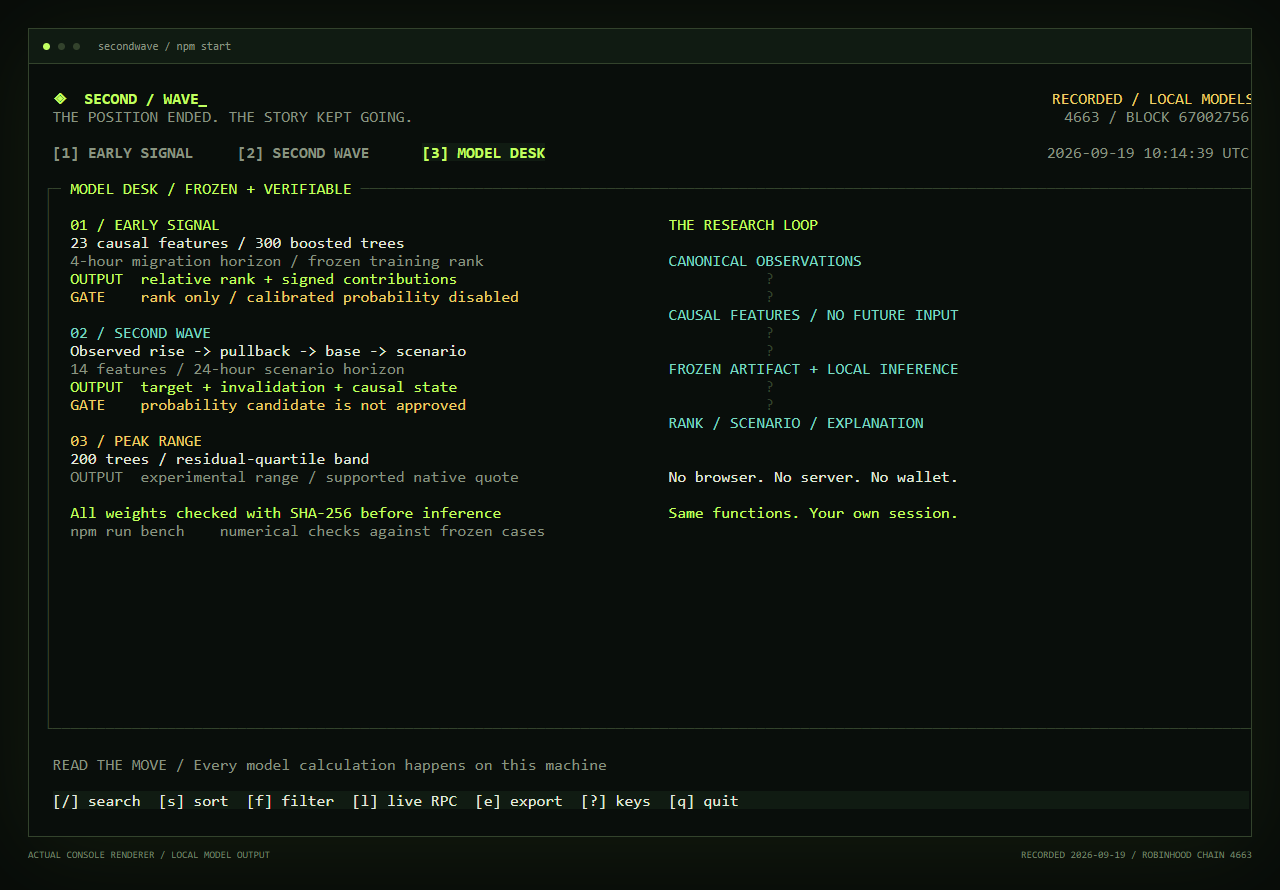
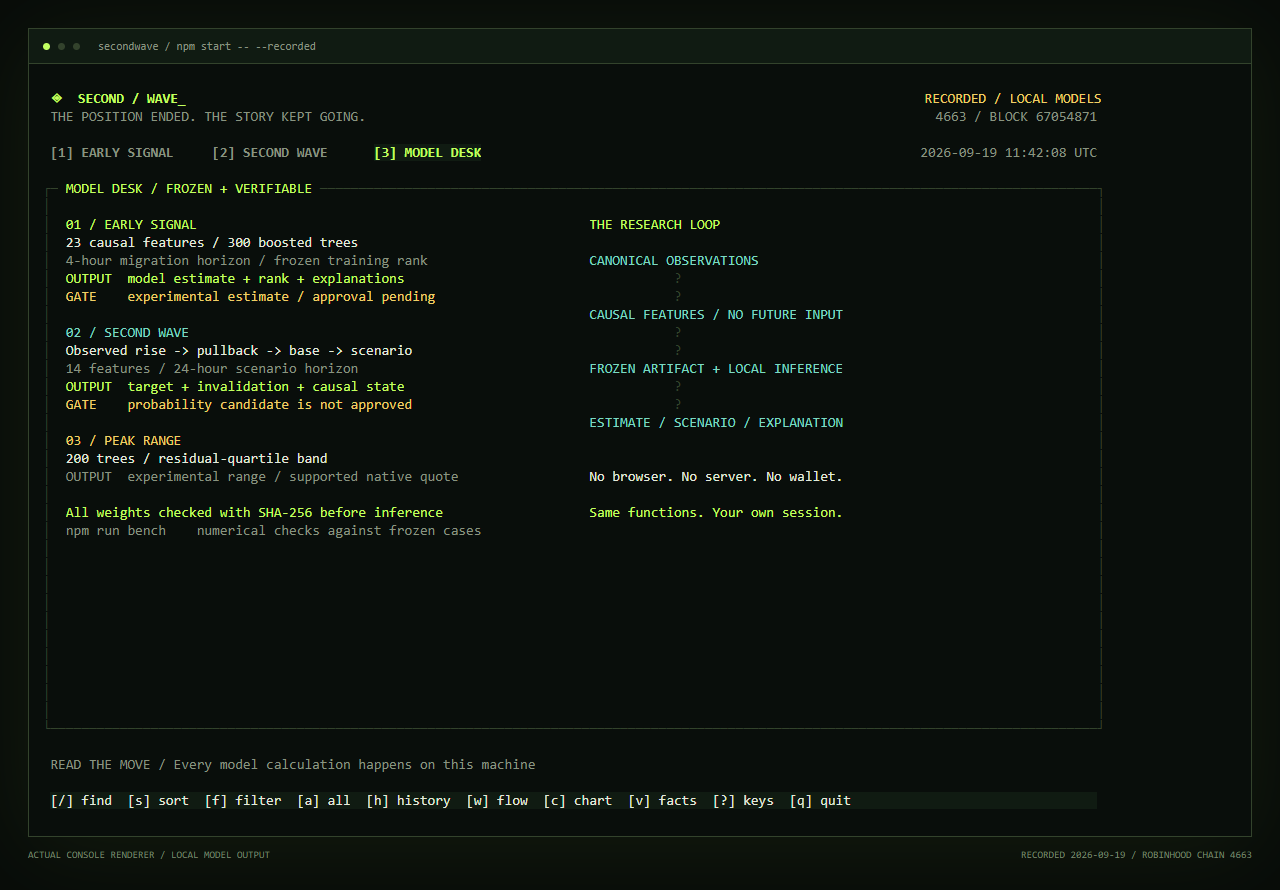
Document live console release and refresh the recorded research desk

diff --git a/scripts/render-console.ts b/scripts/render-console.ts
@@ -4,10 +4,11 @@ import { mkdir, writeFile } from 'node:fs/promises';
 import { execFileSync } from 'node:child_process';
 import { loadSession } from '../src/session.js';
 import { scoreMarket } from '../src/models.js';
+import { projectRow } from '../src/market.js';
 import { initialDesk } from '../src/tui/state.js';
 import { render } from '../src/tui/render.js';
 import { palette } from '../src/tui/canvas.js';
-const session = await loadSession(), rows = session.markets.map(m => scoreMarket(m, session.asOf));
+const session = await loadSession(), rows = session.markets.map(m => projectRow(scoreMarket(m, session.asOf), session));
 const work = '.local/console-frames', out = 'docs/github';
 await mkdir(work, { recursive: true }); await mkdir(out, { recursive: true });
 const browser = await chromium.launch({ channel: 'chrome' });
@@ -30,7 +31,7 @@ try {
       }
       return result + (text ? `<span style="${style}">${escape(text)}</span>` : '');
     }).join('\n');
-    await page.setContent(`<style>body{margin:0;padding:28px;background:#070b08;color:#e2eadb}main{border:1px solid #33432c;box-shadow:0 12px 90px #c1ff6010}header{height:34px;display:flex;align-items:center;gap:8px;background:#101b12;padding:0 14px;font:11px Consolas,monospace;color:#899480;border-bottom:1px solid #33432c}i{width:7px;height:7px;border-radius:100%;background:#33432c}i:first-child{background:#c1ff60}header span{margin-left:10px}pre{font:16px/18px Consolas,monospace;letter-spacing:0;margin:0;background:#090e0b;padding:8px 6px;white-space:pre;overflow:hidden}footer{font:10px Consolas,monospace;display:flex;justify-content:space-between;margin-top:12px;color:#74826a}</style><main><header><i></i><i></i><i></i><span>secondwave / npm start</span></header><pre>${lines}</pre></main><footer><span>ACTUAL CONSOLE RENDERER / LOCAL MODEL OUTPUT</span><span>RECORDED ${session.capturedAt.slice(0,10)} / ROBINHOOD CHAIN 4663</span></footer>`);
+    await page.setContent(`<style>body{margin:0;padding:28px;background:#070b08;color:#e2eadb}main{border:1px solid #33432c;box-shadow:0 12px 90px #c1ff6010}header{height:34px;display:flex;align-items:center;gap:8px;background:#101b12;padding:0 14px;font:11px Consolas,monospace;color:#899480;border-bottom:1px solid #33432c}i{width:7px;height:7px;border-radius:100%;background:#33432c}i:first-child{background:#c1ff60}header span{margin-left:10px}pre{font:14px/18px Consolas,monospace;letter-spacing:0;margin:0;background:#090e0b;padding:8px 6px;white-space:pre;overflow:hidden}footer{font:10px Consolas,monospace;display:flex;justify-content:space-between;margin-top:12px;color:#74826a}</style><main><header><i></i><i></i><i></i><span>secondwave / npm start -- --recorded</span></header><pre>${lines}</pre></main><footer><span>ACTUAL CONSOLE RENDERER / LOCAL MODEL OUTPUT</span><span>RECORDED ${session.capturedAt.slice(0,10)} / ROBINHOOD CHAIN 4663</span></footer>`);
     await page.screenshot({ path: `${work}/${String(frame).padStart(3, '0')}.png` });
     if (frame === 0) await page.screenshot({ path: `${out}/console-wave.png` });
     if (frame === 9) await page.screenshot({ path: `${out}/console-early.png` });

diff --git a/README.md b/README.md
@@ -2,7 +2,7 @@
 
 <p align="center"><sub>by <a href="https://x.com/0xchewa">0xchewa</a></sub></p>
 
-<p align="center"><a href="https://github.com/0xchewa/secondwave/actions/workflows/ci.yml"><img src="docs/github/badges/tests.svg" alt="35 public console tests passed on 19 September 2026"></a> <img src="docs/github/badges/engines.svg" alt="Early Signal and Second Wave"> <img src="docs/github/badges/node.svg" alt="Node 22.x"> <img src="docs/github/badges/chain.svg" alt="Robinhood Chain mainnet 4663"> <img src="docs/github/badges/stack.svg" alt="TypeScript, RPC, local inference"></p>
+<p align="center"><a href="https://github.com/0xchewa/secondwave/actions/workflows/ci.yml"><img src="docs/github/badges/tests.svg" alt="52 public console tests passed on 19 September 2026"></a> <img src="docs/github/badges/engines.svg" alt="Early Signal and Second Wave"> <img src="docs/github/badges/node.svg" alt="Node 22.x"> <img src="docs/github/badges/chain.svg" alt="Robinhood Chain mainnet 4663"> <img src="docs/github/badges/stack.svg" alt="TypeScript, RPC, local inference"></p>
 
 <p align="center"><a href="#run-it-locally"><b>RUN THE DESK ↓</b></a> &nbsp; / &nbsp; <a href="#second-wave--read-the-structure">THE METHOD</a> &nbsp; / &nbsp; <a href="#open-the-model-desk">MODEL RECORD</a> &nbsp; / &nbsp; <a href="docs/README.md">FIELD MANUAL</a></p>
 
@@ -14,7 +14,7 @@ You caught the launch. Watched the first candle go vertical. Sold into the pullb
 
 Second Wave follows that story on **Pons v2, Robinhood Chain**. Early Signal studies a launch at the point where its first information becomes available. Second Wave follows the structure after migration: the first move, the retracement, the base and the life of a scenario.
 
-This edition is a **read-only, local research console**. Launch-time ranking, scenario detection, model explanations and frozen artifacts run on your machine. Start with **196 recorded on-chain markets**, then continue collection directly through your Robinhood Chain RPC. No account, wallet, database or hosted API is needed.
+This edition is a **read-only, local research terminal**. Early estimates, scenario detection, explanations and frozen artifacts run on your machine. `npm start` opens the live desk and continues from a verified **39,605-token bootstrap**. Use ordinary Robinhood Chain RPC, or add your own HyperSync token for faster history. No wallet, database or project-hosted API is needed.
 
 ```sh
 git clone https://github.com/0xchewa/secondwave.git
@@ -94,16 +94,19 @@ The original Wave24 feature set and scenario-aware candidate are separate versio
 
 <sub>Recorded inputs from 19 September 2026, calculated locally. [Wave](docs/github/console-wave.png) · [Early](docs/github/console-early.png) · [Models](docs/github/console-models.png) · [Capture record](docs/github/console-capture.json)</sub>
 
-A compact feed and an inspection pane keep the market and its context together. Read stage, age, quote price, target, invalidation and observed **60-second sell pressure**. The inspector connects those values to the retained trade path and the model's explanations. Small terminal? Press Enter to open the inspector across the screen.
+A compact feed and an inspection pane keep the market and its context together. Read stage, age, quote price, target, invalidation and observed **60-second sell pressure**. Inspect minute OHLCV, complete **5m / 1h / 24h** flow and model explanations. Small terminal? Press Enter to open the inspector across the screen.
 
 | Key | Action | Key | Action |
 |:---|:---|:---|:---|
 | `1` / `2` / `3` | Early / Wave / models | `/` | Search symbol or contract |
 | `↑` / `↓` or `j` / `k` | Select a token | `s` / `f` | Sort / filter |
 | `Enter` | Open the inspector | `e` | Export the selected calculation |
-| `l` | Start RPC collection | `?` / `q` | Controls / quit |
+| `h` | Prepare history from launch | `a` | Ready feed / complete catalogue |
+| `w` / `c` | Flow window / chart range | `v` | Launch facts + explanations |
+| `m` | Minimum Early estimate | `l` | Start or retry live sync |
+| `?` / `q` | Controls / quit | `--recorded` | Explicit offline replay |
 
-Search covers **every record in the local session**, including rows outside the visible screen. This small standalone collector watches a bounded set of recent markets; arbitrary historical contracts need an imported session containing their observations. It does not claim a complete market census.
+Search covers **every record in the local catalogue**, including expired and ineligible contracts. A full CA bypasses view filters. For a contract outside that catalogue, use `lookup` or enter the CA and press `h`: HyperSync searches verified factory events; RPC supports a bounded `--from-block` range. History preparation is resumable and never labels an unfinished scan as complete.
 
 ## The Wave research ledger
 
@@ -123,7 +126,7 @@ This is the dated [published research record](data/evidence.json), not a live pr
 
 ## Early Signal / read the launch
 
-Early Signal starts upstream: what can be known about a launch before its later outcome exists? Launch-time features describe the transaction, caller context, prior launch history and the model's eligible comparison universe. The console pairs relative rank with three feature contributions and the available launch facts. The primary display is TOP %, measured against the frozen eligible reference population.
+Early Signal starts upstream: what can be known about a launch before its later outcome exists? Launch-time features describe the transaction, caller context, prior launch history and the model's eligible comparison universe. The primary display is **MODEL ESTIMATE**, using the active model and its saved live correction. **TOP %** remains secondary, measured against the frozen eligible reference population. The ready feed uses the four-hour Early window, verified quote units, price, curve reserve and complete trading history. Current estimates pause when collection is more than 90 seconds behind.
 
 The useful interaction is fast: scan, compare, open the contract, inspect why it ranked there. Eligibility and missing-data states stay separate from the model's explanations. Unsupported quote units cannot quietly turn into a convincing-looking USD price.
 
@@ -149,7 +152,7 @@ The top-decile group had **4.12×** the observed migration rate of the full diag
 | Average precision | **0.062661** |
 | Brier score | **0.010961** |
 
-All values come from the 16 September 2026 [published evaluation](data/evidence.json). This test set was previously viewed and remains diagnostic. Approved migration probabilities are gated. The console exposes the active rank-only behavior and does not label that rank as a chance of migration.
+All values come from the 16 September 2026 [published evaluation](data/evidence.json). This test set was previously viewed and remains diagnostic. The numerical model estimate remains experimental; approved probability gates stay disabled. TOP describes relative rank and is never relabeled as a migration probability.
 
 ## Open the model desk
 
@@ -193,12 +196,12 @@ flowchart LR
 
 | Question at the desk | What to inspect |
 |:---|:---|
-| “Did I miss the launch?” | Local contract search, launch time, retained event path and migration time |
-| “What made this one stand out?” | Early rank, available launch facts and model contributions |
+| “Did I miss the launch?” | Contract lookup, launch time, minute OHLCV and migration time |
+| “What made this one stand out?” | Early estimate, secondary rank, launch facts and model contributions |
 | “Is the pullback becoming a base?” | Wave stage, base interval, width, target and invalidation |
 | “Who is pressing the sell side?” | Observed sell share, activity interval and largest-sell context where available |
 | “Is that number actually in dollars?” | The price's explicit quote unit; native quote prices remain in ETH |
-| “Why does the chart stop there?” | Recorded coverage, retained sample and the local collector checkpoint |
+| “Why does the chart stop there?” | Covered intervals, chart range and resumable history preparation |
 | “Did the scenario work?” | Its recorded outcome, deadline and supporting chain evidence |
 
 The boring distinctions are useful when the chart gets loud: absent data versus zero, FDV versus circulating capitalization, a curve's progress versus a model estimate, a short retained sample versus a lifetime history.
@@ -209,6 +212,8 @@ The boring distinctions are useful when the chart gets loud: absent data versus 
 flowchart LR
     CH["Pons v2 / Chain 4663"] --> RPC["Your read-only RPC"]
     RPC --> CO["Canonical events + causal features"]
+    CH --> HS["Optional HyperSync / indexed history"]
+    HS --> CO
     CO --> CP["Atomic local checkpoint: cursor + hash + events"]
     CP --> M["Local Early + Wave engines"]
     A["Verified frozen artifacts"] --> M
@@ -219,11 +224,11 @@ flowchart LR
 
 **The model lives here.** The RPC supplies chain observations. Ranking and scenario evaluation execute locally; there is no remote inference endpoint hidden behind the console.
 
-**The cursor has a memory.** The included seed carries historical caller counts and exemption overlaps. New factory events advance those counters in chain order. A bounded visible feed does not reset the historical features to zero. The seed records **313,051 launch callers**, **44,348 migration callers** and **276,028 observed exemption addresses** at its checkpoint.
+**The cursor has a memory.** The included seed carries historical caller counts and exemption overlaps. New factory events advance those counters in chain order. A bounded visible feed does not reset the historical features to zero. The seed contains accumulated public factory-caller history at the block recorded in [the input manifest](data/manifest.json).
 
 **A page either commits or stays put.** Block hashes are checked before and after collection. Cursor, model inputs and events are written together through an atomic file replacement. Failed RPC reads preserve the last committed page. A changed anchor stops collection so data from different forks cannot be silently mixed.
 
-**The scope stays visible.** The local edition keeps up to 1,000 recent markets, watches up to 128 native-quote migrated pools and reads the 64 newest native-quote curves. Reserve progress is sampled for the newest eight curves per page. It retains a short recent trade tape plus model state, not a lifetime trading archive. See [data provenance and limits](docs/DATA_SOURCES.md).
+**The scope stays visible.** The collector retains the whole available 72-hour catalogue and watches up to **512 native migrated pools**. All known native curves in that window are read; reserve changes include buys, sells, fees, tax and locked buybacks. Minute OHLCV is stored separately from the short detector tick tail. Selected history can be rebuilt from launch and retained locally. See [data provenance and limits](docs/DATA_SOURCES.md).
 
 ## Run it locally
 
@@ -236,21 +241,24 @@ npm ci
 npm start
 ```
 
-The first screen is explicitly marked **RECORDED**. It evaluates the included real inputs locally and makes no network requests. The recorded timestamp stays attached to the session.
+`npm start` opens **live mode**. The dated seed is a starting point; the desk says **CATCHING UP** until collection is current. For a completely offline first look, run `npm start -- --recorded`. That mode uses its disclosed historical clock and makes no network requests.
 
-### Switch on your own RPC
+### Choose your data transport
 
 Copy `.env.example` to `.env` and set your provider URL:
 
 ```dotenv
 SWAVE_RPC_URL=https://rpc.mainnet.chain.robinhood.com
+# Optional: faster history with your own Envio account
+ENVIO_API_TOKEN=
+ENVIO_HYPERSYNC_URL=https://robinhood.hypersync.xyz
 ```
 
 ```sh
-npm start -- --live
+npm start
 ```
 
-The official public endpoint is the default. A provider supporting historical logs and state reads is useful for catching up from the seed. The desk labels **CATCHING UP** until the saved cursor reaches the confirmed head; first sync can take time as the seed gets older. It resumes from `.local/checkpoint.json.gz` after restart. RPC credentials stay in your ignored `.env`.
+The official public RPC is the default. An Envio token automatically selects HyperSync for indexed event history; RPC independently verifies block boundaries and contract state. `--transport rpc` forces RPC-only collection. First sync can take time as the seed gets older or provider limits apply. The desk resumes from `.local/checkpoint.json.gz` after restart. Credentials stay in your ignored `.env`.
 
 Prefer a finite collection job?
 
@@ -260,7 +268,16 @@ npm start -- snapshot --state .local/checkpoint.json.gz --mode wave
 npm start -- inspect 0xYOUR_CONTRACT --state .local/checkpoint.json.gz
 ```
 
-The last command requires a contract already present in that local session. To export or import a portable record:
+For an older contract outside your catalogue:
+
+```sh
+npm start -- lookup 0xYOUR_CONTRACT --transport hypersync
+npm start -- hydrate 0xYOUR_CONTRACT --pages 100
+```
+
+Without HyperSync, `lookup` needs `--from-block` near the launch (maximum 200,000 blocks). Old contracts without saved launch-time features keep Early unavailable; later caller history is never substituted. Wave can be reconstructed from verified migration events independently.
+
+To export or import a portable record:
 
 ```sh
 npm start -- export --state .local/checkpoint.json.gz --output .local/session.json.gz
@@ -279,7 +296,7 @@ npm test
 npm run bench
 ```
 
-The dated badge records **35 public-console tests** passed on 19 September 2026. Checks cover frozen numerical outputs, resumed Wave scenarios, missing history, quote decimals, canonical ordering, reorg rejection, interrupted RPC reads, atomic state, terminal dimensions and unsafe terminal text. Synthetic cases are explicitly named. CI runs on Windows and Linux.
+The dated badge records **52 public-console tests** passed on 19 September 2026. Checks cover frozen numerical outputs, exact estimate/rank parity for 40 real launches, resumed Wave scenarios, complete flow windows, HyperSync pagination and joins, quote decimals, canonical ordering, reorg rejection, atomic checkpoints, more than 1,000 markets, terminal dimensions and unsafe terminal text. Synthetic cases are explicitly named. CI runs on Windows and Linux.
 
 <details>
 <summary><b>Rebuild the visual research desk</b></summary>

diff --git a/docs/RUN_IT.md b/docs/RUN_IT.md
@@ -13,7 +13,9 @@ npm start
 
 Вместо Git можно скачать Code → Download ZIP и открыть терминал в распакованной папке. `npm ci` устанавливает зависимости. Повторный запуск — только `npm start`.
 
-Первый экран использует включённую запись реальных on-chain наблюдений. Метка RECORDED и время относятся к записи. Все оценки вычисляются локально; сеть при таком запуске не используется.
+Обычный запуск открывает **живой терминал**: сначала загружается локальное состояние, затем коллектор догоняет подтверждённый head и продолжает обновления. До этого видна метка CATCHING UP. Если данные отстают более чем на 90 секунд, текущая оценка Early скрывается.
+
+Для полностью автономного просмотра включённой записи: `npm start -- --recorded`. В этом режиме сеть не используется, время и возраст токенов относятся к явно указанной дате записи.
 
 ## Клавиши
 
@@ -23,29 +25,39 @@ npm start
 | ↑ / ↓, j / k, PgUp / PgDn | Навигация по всему локальному списку |
 | / | Поиск по символу, названию или CA |
 | s / f | Сортировка / фильтр |
+| a | Переключить готовую выдачу и полный локальный каталог |
+| h | Подготовить историю выбранного токена от launch; продолжить прерванную загрузку |
+| w / c | Окно flow 5m / 1h / 24h и диапазон графика ALL / 1H / 4H / 24H |
+| v | Факты запуска, creator history и подробные model explanations |
+| m | Минимальная оценка Early: 0 / 1 / 2.5 / 5 / 10% |
 | Enter / Esc | Карточка / назад |
 | e | Экспорт выбранного токена и его расчётов в `.local` |
-| l | Начать самостоятельный сбор через RPC |
+| l | Начать или повторить самостоятельный сбор |
 | ? | Подсказки |
 | q / Ctrl+C | Выход с сохранением уже завершённых страниц |
 
-Цена `0.0{7}1234` означает семь нулей после десятичной точки до значащих цифр. Точное десятичное значение находится в JSON. ETH обозначает quote unit, а не доллары. График показывает сохранённые сделки, не полный lifetime OHLCV.
+Цена `0.0{7}1234` означает семь нулей после десятичной точки до значащих цифр. Точное значение находится в JSON. ETH — единица котировки, а не доллары. График строится по минутным OHLCV с равномерной временной осью; пустые минуты не заполняются выдуманными сделками. `[h]` восстанавливает доступную историю от launch. Числа flow показываются только для подтверждённого полного интервала.
 
-## Собственный RPC
+## RPC и ускорение через HyperSync
 
 Скопируйте `.env.example` в `.env`. Укажите `SWAVE_RPC_URL`. Без настройки используется официальный публичный endpoint. URL с ключом провайдера не добавляйте в Git.
 
 ```dotenv
 SWAVE_RPC_URL=https://rpc.mainnet.chain.robinhood.com
+# Необязательно: собственный ключ Envio ускоряет чтение истории
+ENVIO_API_TOKEN=
+ENVIO_HYPERSYNC_URL=https://robinhood.hypersync.xyz
 ```
 
 ```sh
-npm start -- --live
+npm start
 ```
 
 Нужна Robinhood Chain **mainnet 4663**. Консоль проверяет chain ID. Провайдер должен поддерживать чтение исторических logs, transactions, receipts и block headers; исторический `eth_call` нужен для деклараций миграции и reserve progress. HTTP разрешён только для localhost, внешние адреса — HTTPS. Отправка транзакций и подписи отсутствуют.
 
-Сбор продолжается с блока seed, а затем с собственного checkpoint. При отставании видна метка CATCHING UP; сохранённая дата не заменяется временем компьютера. Чем старше seed, тем дольше первый проход. Публичный RPC имеет ограничения; свой провайдер с подходящими лимитами ускоряет сбор. Коллектор читает не более десяти заголовков в одном batch и оставляет 20 блоков подтверждений.
+При наличии `ENVIO_API_TOKEN` автоматически используется HyperSync для событий и связанных транзакций, а RPC независимо проверяет границы блока и читает contract state. Без ключа работает обычный RPC. Можно явно выбрать `--transport rpc` или `--transport hypersync`. [Получение доступа и документация HyperSync](https://docs.envio.dev/docs/HyperSync/hypersync-quickstart).
+
+Сбор продолжается с seed, затем с собственного checkpoint. Чем старше seed и ниже лимиты провайдера, тем дольше первый проход. Полная история не обещается мгновенно. Коллектор оставляет 20 блоков подтверждений, сохраняет каждую завершённую страницу и соблюдает ошибки лимитов провайдера.
 
 Конечный проход и просмотр его результата:
 
@@ -55,7 +67,21 @@ npm start -- snapshot --state .local/checkpoint.json.gz --mode wave
 npm start -- inspect 0xYOUR_CONTRACT --state .local/checkpoint.json.gz
 ```
 
-`--pages`: 1–100, `--blocks`: 1–2000. CA должен присутствовать в локальной сессии. Поиск не загружает произвольный старый токен из внешнего API.
+`--pages`: 1–1000, `--blocks`: 1–10000. По умолчанию страница RPC — 1000 блоков, HyperSync — 6000. Snapshot и inspect читают сохранённое состояние без сети.
+
+### Старый контракт и полная история
+
+```sh
+npm start -- lookup 0xYOUR_CONTRACT --transport hypersync
+npm start -- hydrate 0xYOUR_CONTRACT --pages 100
+npm start -- inspect 0xYOUR_CONTRACT
+```
+
+Поиск с HyperSync проверяет factory events от genesis. Для RPC укажите `--from-block` около запуска: диапазон ограничен 200 000 блоков. В интерактивном режиме введите полный CA через `/`, затем нажмите `h`. Готовый контракт сохраняется в каталоге; повторный `hydrate` продолжит незавершённую работу. Приоритет интерактивного сборщика — живой head, история готовится страницами после него.
+
+Если у старого контракта нет сохранённого launch-time Early vector, текущими счётчиками он не заменяется. Wave можно восстановить из проверенной истории миграции независимо. Для токенов без проверенного pool история Wave остаётся недоступной с конкретной причиной.
+
+После обновления со старого выпуска можно начать с нового seed, сохранив прежнее состояние: `npm start -- --state .local/terminal-v2.json.gz`.
 
 ## Перенос записи
 
@@ -65,12 +91,12 @@ npm start -- --input .local/session.json.gz
 npm start -- snapshot --mode early --json
 ```
 
-`--input` — переносимые входы для воспроизведения. Полный checkpoint для продолжения RPC также содержит накопленные causal counters; перенос одного session-файла их не заменяет. Не сочетайте `--input` и `--live`.
+`--input` открывает датированную запись в режиме RECORDED. Полный checkpoint для продолжения RPC также содержит causal counters; перенос одного session-файла их не заменяет. Не сочетайте `--input`, `--recorded` и `--live`.
 
 ## Ошибки и восстановление
 
 - **401/403:** проверить ключ и разрешения RPC; завершённый checkpoint остаётся.
-- **429 / timeout:** повторить позже или использовать другой RPC. Повторы ограничены; незавершённая страница не продвигает курсор.
+- **429 / timeout:** desk повторяет попытку с паузой, сохраняя checkpoint; конечную CLI-команду можно запустить повторно. В момент отставания более 90 секунд Early estimate приостанавливается. Собственные лимиты RPC и HyperSync важны для свежести.
 - **REORG / ARCHIVE UNAVAILABLE:** проверить исторический доступ и block hash через доверенного провайдера. Для реального reorg нужен checkpoint до расхождения или новый проверенный seed. Автоматического перескока поверх расхождения нет.
 - **LOCAL_STATE_LOCKED:** проверьте PID в соседнем `.lock`. Если процесс действительно завершился аварийно, удалите только этот lock-файл и запустите снова. Не удаляйте блокировку работающего сборщика.
 - **Недостаточная история:** это состояние покрытия, а не низкая оценка токена. Прочитайте причину в карточке и [границы сборщика](DATA_SOURCES.md).

diff --git a/docs/DATA_SOURCES.md b/docs/DATA_SOURCES.md
@@ -13,12 +13,13 @@ ABI используется только для чтения. Pool связыв
 
 ## Записанные входы
 
-Checkpoint: **67 002 756**, 19 сентября 2026, **10:14:39 UTC**. Hash и SHA-256 файлов находятся в [data/manifest.json](../data/manifest.json).
+Checkpoint: **67 054 871**, 19 сентября 2026, **11:42:08 UTC**. Hash и SHA-256 файлов находятся в [data/manifest.json](../data/manifest.json).
 
-- `session.json.gz`: 196 реальных рынков — 128 недавних запусков и до 20 сохранённых рынков на состояние detector. Есть пересечения, поэтому итог не является простой суммой всех групп. Это целевая выборка для инспекции, не полный рынок и не test set.
-- `seed.json.gz`: накопленные on-chain causal counters для 313 051 launch callers, 44 348 graduation callers и 276 028 exemptions. Число пропущенных causal событий в seed равно нулю. Это счётчики публичных событий, не приватная база пользователей.
-- Wave session может содержать checkpoint движка и только хвост событий. Сохранённые наблюдения позволяют продолжить вычисление; хвост отдельно не является lifetime archive.
+- `session.json.gz`: 39 605 токенов доступного каталога за 72 часа, включая 295 рынков с проверенным native pool; 212 707 минутных OHLCV. Все части получены из одного согласованного snapshot. Это bootstrap, а не текущая live-выдача и не test set.
+- `seed.json.gz`: накопленные public on-chain causal counters. Число пропущенных causal событий равно нулю. Это история factory caller и exemptions, не приватная база пользователей.
+- Wave session содержит checkpoint движка и хвост событий. Минутные свечи хранятся отдельно; полнота activity определяется coverage, а не длиной tick tail. Для запусков без объявленного ticker свечи могут отсутствовать и полнота не заявляется.
 - `early-parity.json`, `peak-parity.json`: замороженные входы/выходы для проверки математической реализации.
+- `terminal-parity.json`: 40 реальных launch vectors и сохранённые эталонные estimate/TOP.
 - `evidence.json`: датированная опубликованная исследовательская оценка. Она не обновляется при RPC sync.
 
 ## Живой сбор
@@ -27,19 +28,26 @@ Checkpoint: **67 002 756**, 19 сентября 2026, **10:14:39 UTC**. Hash и 
 
 Factory launches и migrations обновляют causal counters по всей прочитанной странице, даже если токен не входит в локальную отображаемую выборку. Курсор, hash и события записываются одним checkpoint после повторной проверки границ. При RPC error или изменении hash страница не сохраняется.
 
+Необязательный HyperSync: `https://robinhood.hypersync.xyz/query`, собственный `ENVIO_API_TOKEN`. Страницы дочитываются по `next_block`, JoinAll сохраняет связанные transaction receipts, pool Initialize проверяется по factory migration. Границы подтверждаются через независимый RPC; модель остаётся локальной. Ошибки провайдера не выводят ключи или тело ответа.
+
 ## Ограничения публичного сборщика
 
 | Область | Предел / значение |
 | --- | --- |
-| Видимый набор | До 1 000 рынков с launch или migration за 72 часа |
-| Native-quote pools | До 128 наиболее недавно мигрировавших |
-| Native-quote curves | До 64 наиболее недавних |
-| Curve progress | Reserve read для восьми новейших за страницу |
+| Каталог | Всё доступное окно 72h; защитный бюджет 100 000 записей; найденные вручную токены сохраняются |
+| Основная выдача | Early: 4h и admission Terminal; Wave: migration 72h и проверенное состояние |
+| Native-quote pools | До 512 наиболее недавно мигрировавших, как у основного collector |
+| Native-quote curves | Все известные кривые в сохранённом окне |
+| Curve progress | Точный net reserve из buys/sells/fees/tax/BuybackLocked; archive eth_call при неизвестной исходной сумме |
 | Prefix detector без checkpoint | До 12 000 сделок; превышение даёт явный gate |
 | Сохранённый хвост | До десяти минут; pool до 12 000, curve до 1 000 событий |
-| Flow | 60 секунд, completeness отдельно от чисел |
-| CA search | Только входы текущей локальной сессии |
+| Flow | BUY/SELL и volume: 5m/1h/24h; sell pressure: 60s; incomplete остаётся null |
+| График | Минутные OHLCV; 72h bootstrap; resumable hydrate от launch для выбранного токена |
+| CA search | Локально без ограничения страницы; HyperSync lookup от genesis; RPC lookup с from-block и пределом 200 000 блоков |
+| Старый Early vector | При отсутствии исторических causal features остаётся unavailable; будущие данные не подставляются |
 | USD | Conversion не выполняется, цены сохраняют quote unit |
 | Reorg | Остановка на расхождении, без автоматического смешивания/перескока |
 
 Редкие quote currencies остаются unsupported для моделей, пока необходимые единицы и входы не подтверждены. Непросмотренные интервалы, пропуски и снятые с наблюдения рынки не объявляются полными.
+
+Веса в выпуске заморожены: обновление приватной платформы не меняет уже установленную консоль. Для новых артефактов нужен новый публичный выпуск. Скорость и свежесть локальной выдачи зависят от машины, RPC и HyperSync; закрытое приложение и сервер не требуются.

diff --git a/docs/STATUS.md b/docs/STATUS.md
@@ -4,10 +4,14 @@
 
 - Изолированная история Git и самостоятельный npm-проект. Сайт, боты, инфраструктура сервера и приватный training archive не включены.
 - Три SHA-256 модельных артефакта сверены с текущими работающими файлами.
-- 196 реальных записей для первого запуска; самостоятельный read-only RPC сбор с локальным checkpoint.
-- Early / Wave / model desk, поиск по всем локальным строкам, сортировки, фильтры, инспектор, retained price path и JSON export.
-- `npm run check`, `npm run build`, `npm test`, `npm run bench`: успешно. 35 теста, 882 численных утверждения, максимальное отклонение 0.
-- Живой RPC: несколько последовательных проходов и повторный запуск до блока 67 004 806. Пакет заголовков снизил число HTTP-запросов для проверенного прохода 1 000 блоков до 93. Это пример конкретного прохода, не универсальный benchmark скорости.
+- 39 605 реальных токенов и 212 707 минутных OHLCV в bootstrap на блоке 67 054 871, 11:42:08 UTC. Обычный запуск — live; `--recorded` — явный offline replay.
+- MODEL ESTIMATE соответствует Terminal; TOP вторичен. Early admission: 4h, quote, цена, полный activity interval и известный reserve. При lag >90s текущая оценка скрывается.
+- Семь сортировок, minimum estimate, ready/catalogue, поиск CA, launch facts, model explanations, минутный график, 5m/1h/24h flow, JSON export.
+- Самостоятельные RPC и HyperSync, factory lookup старого CA и resumable history от launch. Модель исполняется локально; штатный API не вызывается консолью.
+- `npm run check`, `npm run build`, `npm test`, `npm run bench`: 52 теста, 882 прежних численных утверждения и exact parity estimate/TOP для 40 реальных vectors.
+- Живой HyperSync + RPC догнал head до блока 67 061 586 с lag 13 секунд: 39 625 токенов, 932 Early ready, 228 Wave ready. Последний проход 715 блоков занял 6.8s и 9 read requests. Это измерение конкретного запуска, не обещание скорости.
+- Live API сверка VERTEX: estimate `0.01220523763724389`, TOP `70.0170623724504` совпали точно. Wave ready 228 совпал с доступной серверной выдачей; моменты snapshots различались.
+- Восстановление VERTEX и мигрировавшего `0x8c5579a814af1d3a734b293c3042a240d2539c7a` совпало с сохранёнными bars/activity/price; у последнего — 2387 buys, 2425 sells, 30 minute bars и OBSERVING. Factory lookup от genesis восстановил тот же launch block и pool key.
 - Windows Terminal: управление и выход проверены. Размеры renderer: 140×42, 120×36, 80×30, 64×24, 40×16. Узкий/низкий экран получает подсказку.
 - Вероятностные release gates сохранены. Полный replay/обучение на приватном архиве не публикуется.
 
